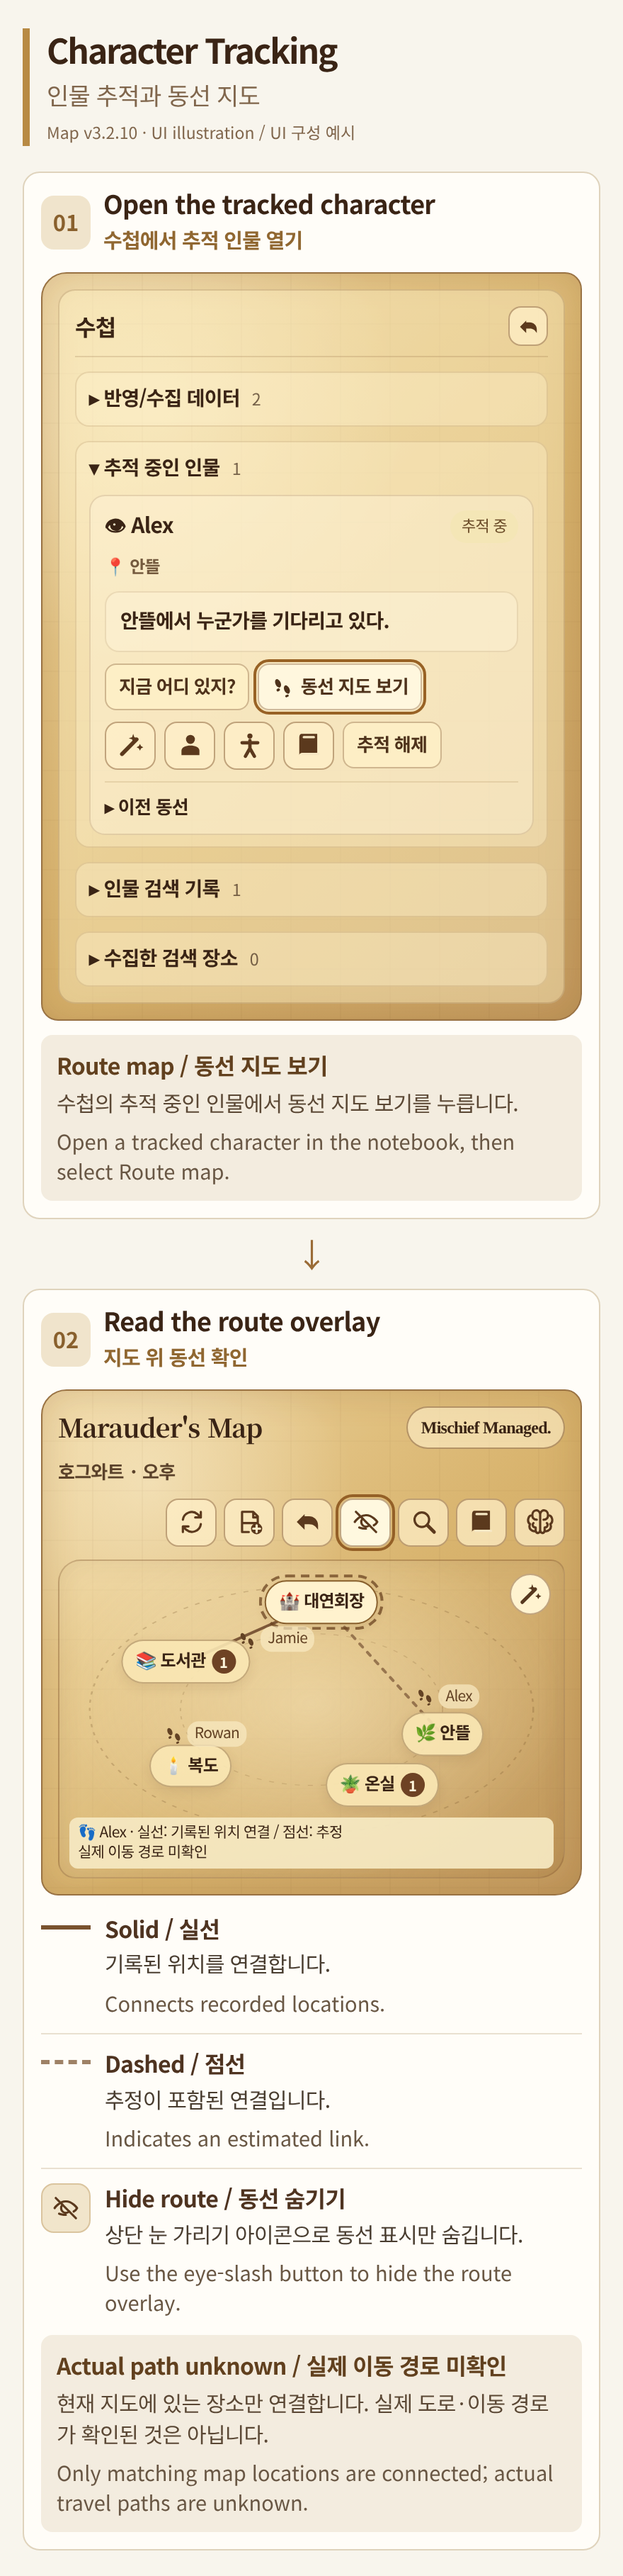
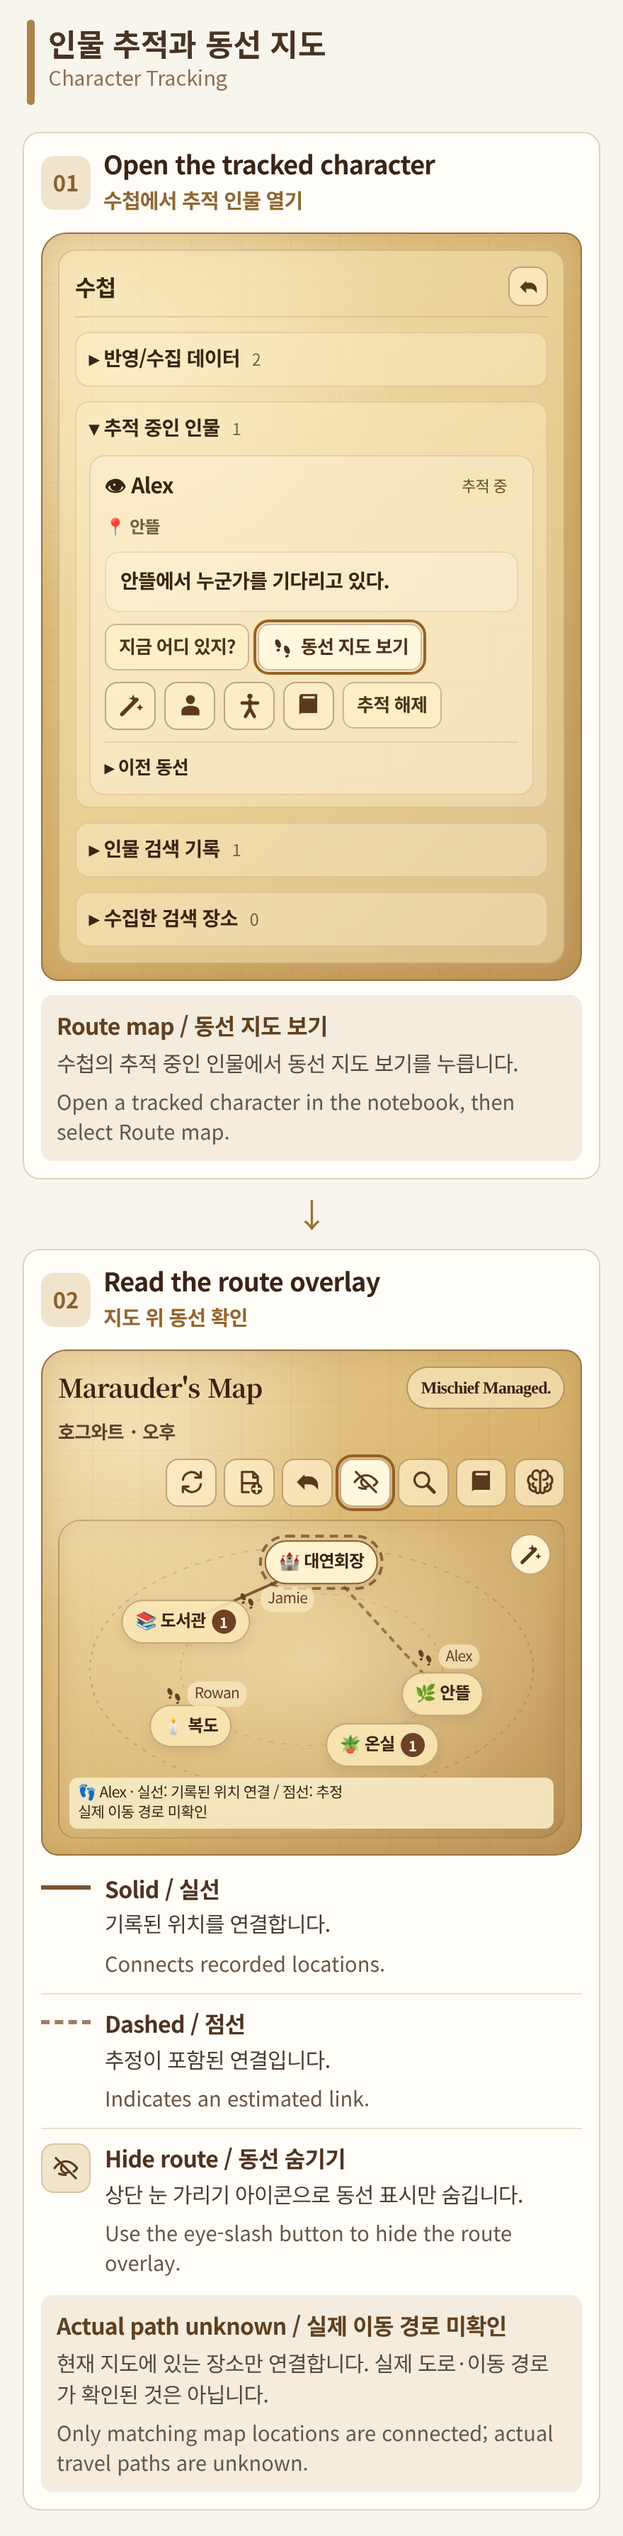
docs: clean guide image captions and bilingual headings

Changed region(s): [[0.0307, 0.0, 0.9511, 0.9927], [0.7364, 0.1861, 0.8284, 0.2172], [0.092, 0.7756, 0.1227, 0.8066]]

diff --git a/README.md b/README.md
@@ -161,7 +161,7 @@ The area, time, and scene summary appear above the map. **S.H.I.E.L.D. Field Loc
 Current controls use Font Awesome icons; the labels below describe their functions. Older screenshots may show the earlier emoji buttons.
 
 <p align="center">
-  <a href="assets/readme/mobile/map-controls-mobile.webp"><img src="assets/readme/mobile/map-controls-mobile.webp" alt="Marauder's Map toolbar and map controls (v3.2.10 UI illustration)" width="860" /></a>
+  <a href="assets/readme/mobile/map-controls-mobile.webp"><img src="assets/readme/mobile/map-controls-mobile.webp" alt="Marauder's Map toolbar and map controls" width="860" /></a>
 </p>
 
 | Button | Function |
@@ -252,7 +252,7 @@ Locations, quests, characters, discoveries, and searched places are managed thro
 Only information with a selected application mode is provided to subsequent AI responses through SillyTavern's extension prompt. No sentence is automatically inserted into the input box.
 
 <p align="center">
-  <a href="assets/readme/mobile/map-location-collection-mobile.webp"><img src="assets/readme/mobile/map-location-collection-mobile.webp" alt="Collect a location alone or with linked quests (v3.2.10 UI illustration)" width="860" /></a>
+  <a href="assets/readme/mobile/map-location-collection-mobile.webp"><img src="assets/readme/mobile/map-location-collection-mobile.webp" alt="Collect a location alone or with linked quests" width="860" /></a>
 </p>
 
 ---
@@ -266,7 +266,7 @@ Only information with a selected application mode is provided to subsequent AI r
 Newly generated discoveries carry an **Observed in RP / Inferred / Rumor** evidence tag. The 'observed' tag is used only when the supplied recent roleplay has a matching anchor; previous AI maps alone cannot confirm facts. The tag and supporting anchors are AI assessments, not proof. Inferred information and rumors stay explicitly uncertain even when you apply them.
 
 <p align="center">
-  <a href="assets/readme/mobile/map-discovery-details-mobile.webp"><img src="assets/readme/mobile/map-discovery-details-mobile.webp" alt="Discovery details and evidence labels (v3.2.10 UI illustration)" width="860" /></a>
+  <a href="assets/readme/mobile/map-discovery-details-mobile.webp"><img src="assets/readme/mobile/map-discovery-details-mobile.webp" alt="Discovery details and evidence labels" width="860" /></a>
 </p>
 
 The button in the upper-right corner of the map board uses a separate AI request to find specific people, objects, messages, location changes, or signs of events in progress that are not yet shown on the current map.
@@ -343,7 +343,7 @@ A place you like can be applied immediately or collected in the `📓` notebook.
 Select `👁 이후 동선 추적` (Track Later Movement) in character details to check that character's later location and movement again from the notebook.
 
 <p align="center">
-  <a href="assets/readme/mobile/map-character-tracking-mobile.webp"><img src="assets/readme/mobile/map-character-tracking-mobile.webp" alt="Character tracking and route display (v3.2.10 UI illustration)" width="860" /></a>
+  <a href="assets/readme/mobile/map-character-tracking-mobile.webp"><img src="assets/readme/mobile/map-character-tracking-mobile.webp" alt="Character tracking and route display" width="860" /></a>
 </p>
 
 | Feature | Description |
@@ -577,7 +577,7 @@ Bonbon Board에서는 네 면의 게임 경로 위에 장소를 나타내는 이
 현재 버튼은 Font Awesome 아이콘을 사용합니다. 아래는 각 버튼의 기능 이름이며, 이전 화면 예시의 이모지 버튼과 모양이 다를 수 있습니다.
 
 <p align="center">
-  <a href="assets/readme/mobile/map-controls-mobile.webp"><img src="assets/readme/mobile/map-controls-mobile.webp" alt="마루더즈 맵 상단 버튼과 지도 조작 (v3.2.10 UI 구성 예시)" width="860" /></a>
+  <a href="assets/readme/mobile/map-controls-mobile.webp"><img src="assets/readme/mobile/map-controls-mobile.webp" alt="마루더즈 맵 상단 버튼과 지도 조작" width="860" /></a>
 </p>
 
 | 버튼 | 기능 |
@@ -668,7 +668,7 @@ Bonbon Board에서는 네 면의 게임 경로 위에 장소를 나타내는 이
 반영을 선택한 정보만 실리태번의 확장 프롬프트를 통해 다음 AI 답변에 참고됩니다. 입력창에 문장이 자동으로 붙지는 않습니다.
 
 <p align="center">
-  <a href="assets/readme/mobile/map-location-collection-mobile.webp"><img src="assets/readme/mobile/map-location-collection-mobile.webp" alt="장소만 또는 연결 퀘스트와 함께 수집 (v3.2.10 UI 구성 예시)" width="860" /></a>
+  <a href="assets/readme/mobile/map-location-collection-mobile.webp"><img src="assets/readme/mobile/map-location-collection-mobile.webp" alt="장소만 또는 연결 퀘스트와 함께 수집" width="860" /></a>
 </p>
 
 ---
@@ -682,7 +682,7 @@ Bonbon Board에서는 네 면의 게임 경로 위에 장소를 나타내는 이
 새로 생성된 발견에는 **RP에서 확인 / 추정 / 소문** 근거 표시를 붙입니다. 최근 RP의 실제 내용과 근거가 연결되는 경우에만 '확인'으로 분류하고, AI가 이전에 생성한 지도 설명만으로 사실을 확정하지 않습니다. 표시와 근거 설명은 AI의 분류 결과이며 사실 보증이 아닙니다. 추정이나 소문을 RP에 반영하더라도 확정 사실로 취급하지 않도록 지시합니다.
 
 <p align="center">
-  <a href="assets/readme/mobile/map-discovery-details-mobile.webp"><img src="assets/readme/mobile/map-discovery-details-mobile.webp" alt="발견물 상세와 근거 표시 (v3.2.10 UI 구성 예시)" width="860" /></a>
+  <a href="assets/readme/mobile/map-discovery-details-mobile.webp"><img src="assets/readme/mobile/map-discovery-details-mobile.webp" alt="발견물 상세와 근거 표시" width="860" /></a>
 </p>
 
 지도판 오른쪽 위의 버튼을 누르면 현재 지도에 아직 표시되지 않은 구체적인 존재·물건·메시지·장소의 변화·진행 중인 사건의 징후를 별도의 AI 요청으로 확인합니다.
@@ -759,7 +759,7 @@ Bonbon Board에서는 네 면의 게임 경로 위에 장소를 나타내는 이
 인물 정보에서 `👁 이후 동선 추적`을 누르면 수첩에서 이후 위치와 동선을 다시 확인할 수 있습니다.
 
 <p align="center">
-  <a href="assets/readme/mobile/map-character-tracking-mobile.webp"><img src="assets/readme/mobile/map-character-tracking-mobile.webp" alt="인물 추적과 동선 지도 (v3.2.10 UI 구성 예시)" width="860" /></a>
+  <a href="assets/readme/mobile/map-character-tracking-mobile.webp"><img src="assets/readme/mobile/map-character-tracking-mobile.webp" alt="인물 추적과 동선 지도" width="860" /></a>
 </p>
 
 | 기능 | 설명 |
